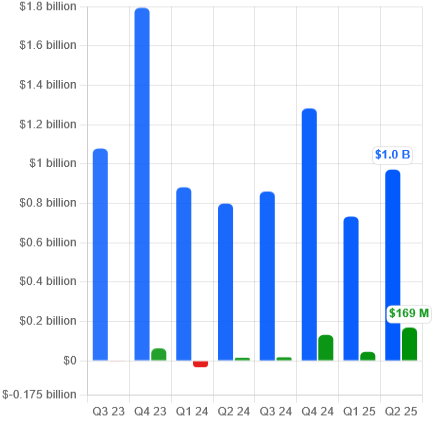
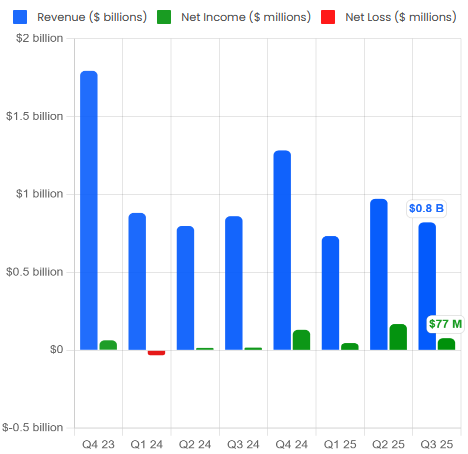
Q3 2025

diff --git a/src/app/main-pages/ownership/ownership-data/ownership-history.ts b/src/app/main-pages/ownership/ownership-data/ownership-history.ts
@@ -12,11 +12,11 @@ const drsVsDsppRatio2025: number = 0.813;
  * 
 
 Insiders:
-Total non-RC:  850,553
+Total non-RC:  909,825
 Total:  38,198,395
 
-ROBINSON MARK HAYMOND  -  116,751
-MOORE DANIEL WILLIAM - 48,899  
+ROBINSON MARK HAYMOND  -  112,302
+MOORE DANIEL WILLIAM - 112,620 
 GRUBE JAMES - 29,439 
 ATTAL ALAIN - 572,464
 COHEN RYAN - 37,347,842 
@@ -27,6 +27,28 @@ CHENG LAWRENCE - 83,000
  *  To do an update on the data, copy the most recent data object and add it to the top and make changes
  */
 export const ownershipHistory: OwnershipHistoryItem[] = [
+    {
+        dateYYYYMMDD: '2025-12-05',
+        registeredText: "... approximately 67.0 million shares (or approximately 15% of our outstanding shares) were held by registered holders with our transfer agent, Computershare Limited (“Computershare”) ",
+        filingLink: "https://www.sec.gov/ix?doc=/Archives/edgar/data/1326380/000132638025000098/gme-20251101.htm",
+        filingType: '10Q',
+        filingDateYYYYMMDD: '2025-12-09',
+        tso: 448000000,
+        heldByCede: 381000000,
+        heldByRegistered: 67000000,
+        registeredDRS: drsVsDsppRatio2025 * 67000000,
+        registeredDSPP: (1 - drsVsDsppRatio2025) * 67000000,
+        totalInsiders: 909825 + 37347842,
+        insidersRyanCohen: 37347842,
+        insidersRemainder: 909825,
+        keithGill: 9001000,
+        instVanguard: 38504483,
+        instBlackrock: 35373798,
+        instStateStreet: 12372829,
+        instAllOther: 87917178,
+        instTotal: 174168288,
+        remainder: 159573045,
+    },
     {
         dateYYYYMMDD: '2025-09-09',
         registeredText: "... approximately 66.7 million shares (or approximately 15% of our outstanding shares) were held by registered holders with our transfer agent, Computershare Limited ",

diff --git a/src/app/main-pages/financials/earnings-results/10q_filings.ts b/src/app/main-pages/financials/earnings-results/10q_filings.ts
@@ -1,6 +1,34 @@
 import { EarningsResultInterface } from "./earnings-result.interface";
 
 export const filings_10q_raw: EarningsResultInterface[] = [
+    {
+    fiscalYear: 2025,
+    reportingPeriod: "Q3",
+    filingDateYYYYMMDD: "2025-12-09",
+    reportDateYYYYMMDD: "2025-11-01",
+    revenue: 821000000,
+    revenueHardware: 367400000,
+    revenueSoftware: 197500000,
+    revenueCollectibles: 256100000,
+    revenueOther: 0,
+    costOfSales: 547600000,
+    grossProfit: 273400000,
+    sga: 221400000,
+    operatingIncome: 41300000,
+    interestIncome: 49000000,
+    ebit: 84100000,
+    incomeTaxExpense: 7000000,
+    netEarnings: 77100000,
+    netEPS: 0.17,
+    weightedAverageSharesOutstanding: 447700000,
+    totalAssets: 10550700000,
+    totalDebt: 4162600000,
+    totalLiabilities: 5247700000,
+    stockholdersEquity: 5303000000,
+    storeCount: 3203,
+    drs: 67000000,
+    url: "https://www.sec.gov/ix?doc=/Archives/edgar/data/1326380/000132638025000098/gme-20251101.htm"
+  },
   {
     fiscalYear: 2025,
     reportingPeriod: "Q2",

diff --git a/src/app/main-pages/start-page/start-page.component.html b/src/app/main-pages/start-page/start-page.component.html
@@ -93,9 +93,10 @@
                         information</p>
                     <p class="section-p">As of fiscal year 2024 results, GameStop had revenue
                         of $3.8 billion, and net income of $131 million.</p>
-                    <p class="section-p">As of Q2 2025 results, GameStop has posted positive profits for 5 quarters in a
+                    <p class="section-p">As of Q3 2025 results, GameStop has been net profitable for 6 consecutive quarters.</p>
+                    <!-- <p class="section-p">As of Q2 2025 results, GameStop has posted positive profits for 5 quarters in a
                         row, with $169 million net income for the quarter -- among the most profitable quarters in the history of the company.
-                    </p>
+                    </p> -->
                 </div>
 
 

diff --git a/src/app/info-pages/drs/drs-gme-chart/drs-gme-chart.component.ts b/src/app/info-pages/drs/drs-gme-chart/drs-gme-chart.component.ts
@@ -76,7 +76,8 @@ export class DrsGmeChartComponent implements AfterViewInit {
     'Q3 24',
     'Q4 24',
     'Q1 25',
-    'Q2 25'
+    'Q2 25',
+    'Q3 25'
   ];
 
   private _data_drsRegisteredQuarterly: number[] = [
@@ -97,6 +98,7 @@ export class DrsGmeChartComponent implements AfterViewInit {
     69500000,   //Q4 2024
     68100000,   //Q1 2025
     66700000,   //Q2 2025
+    67000000,   //Q3 2025
   ];
 
   private _data_tsoQuarterly: number[] = [
@@ -117,6 +119,7 @@ export class DrsGmeChartComponent implements AfterViewInit {
     447083981,      // Q4 2024
     447336306,      //Q1 2025
     447700000,      //Q2 2025
+    448000000,      //Q2 2025
   ];
 
   private _data_drsPercentQuarterly: number[] = this._data_drsRegisteredQuarterly.map(drsRegistered => {
